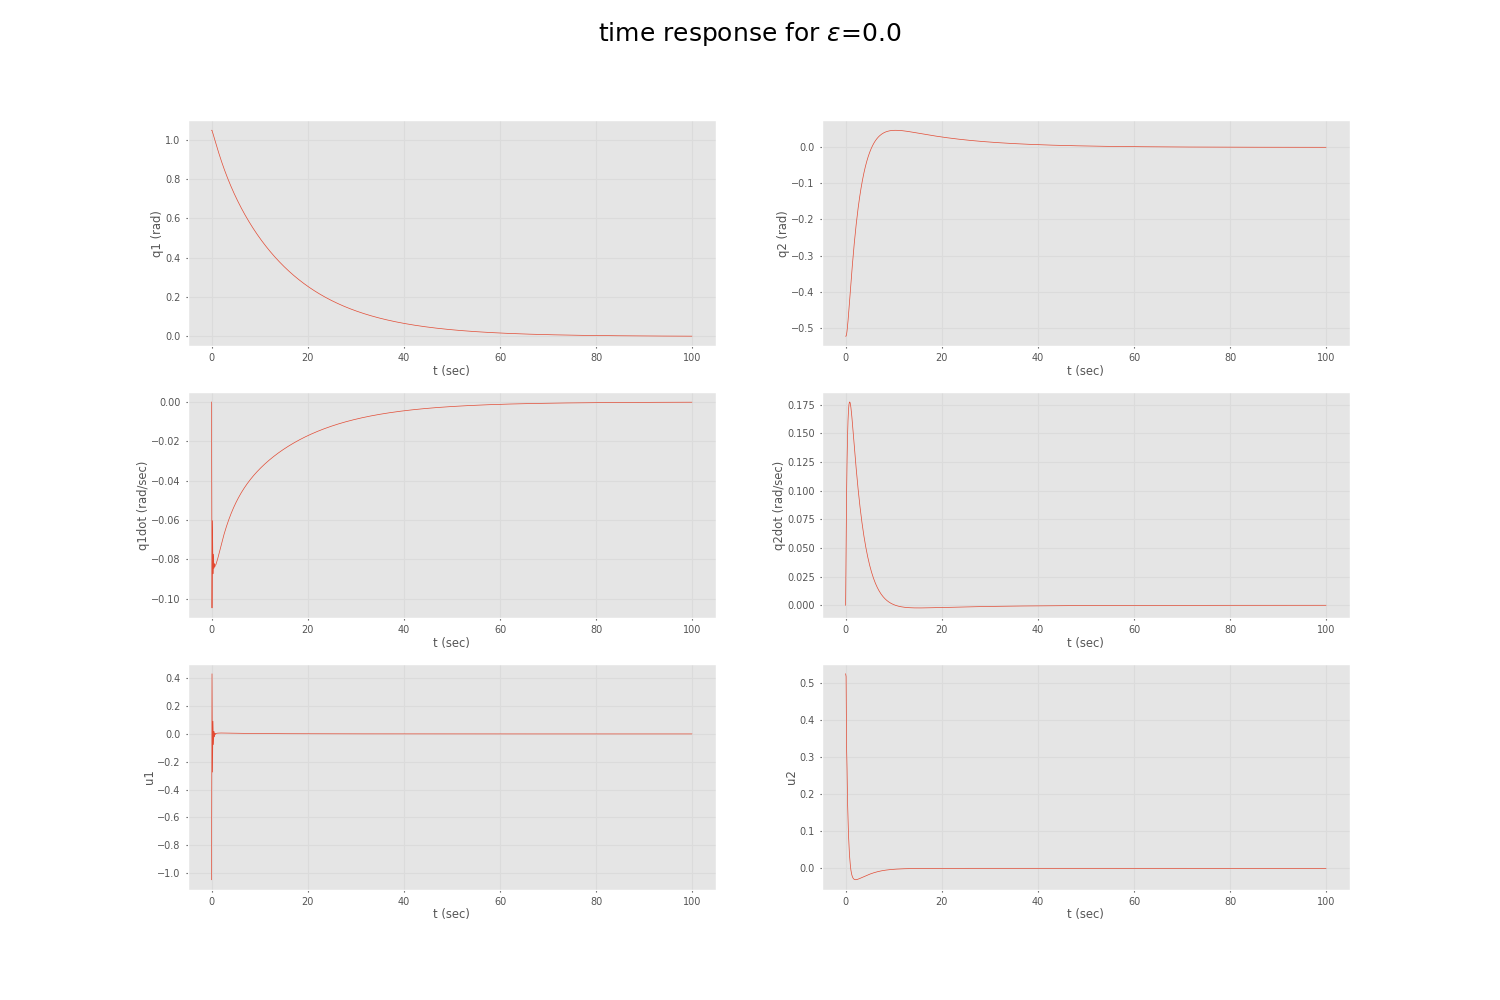
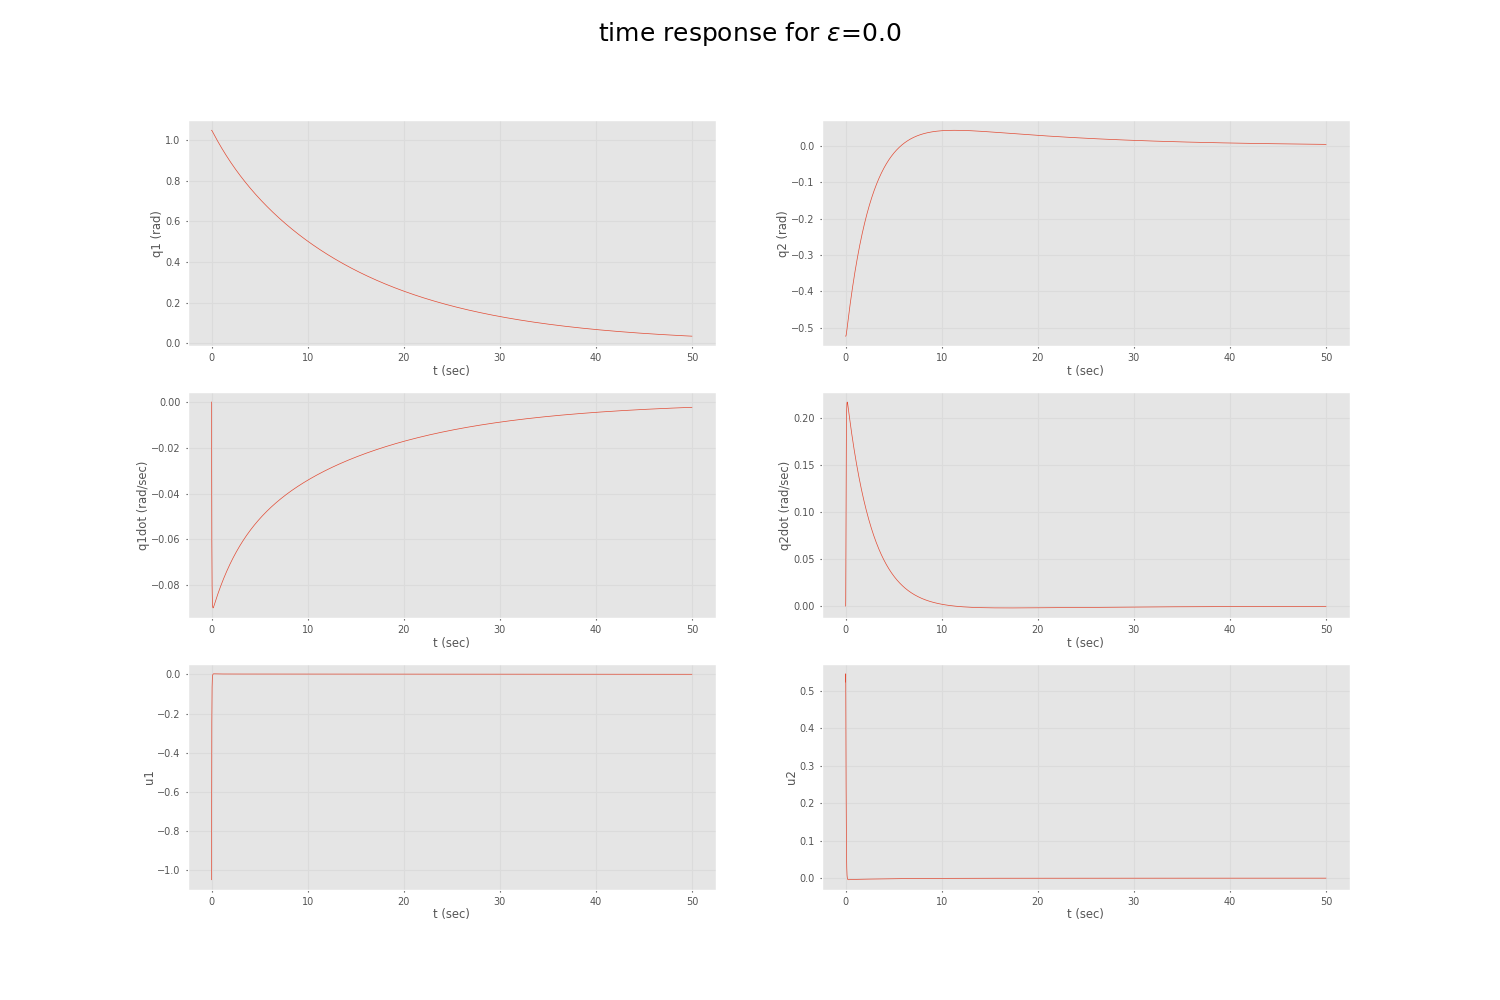
updated plot and readme

diff --git a/code/scara.py b/code/scara.py
@@ -111,7 +111,7 @@ class Manipulator:
         return next_state
 
 
-    def run_controller(self, total_time:int=100, dt:float=0.01, epsilon:float = 0):
+    def run_controller(self, total_time:int=50, dt:float=0.01, epsilon:float = 0):
         
         load_variables = {self.e:epsilon}
         
@@ -158,7 +158,7 @@ class Manipulator:
                 if m>100:
                     new_m = m//100
                     Qs = Qs[::new_m,:]
-                self.scara.plot(Qs,dt,gif_filename) # for faster graph multiplying dt with 10
+                self.scara.plot(Qs,0.1,gif_filename) # for faster graph multiplying dt with 10
                 plt.close()
     def plotData(self,q1s:list,q2s:list,q1_dots:list,q2_dots:list,u1s:list,u2s:list,Ts:list,epsilon:float):
         # plotting

diff --git a/README.md b/README.md
@@ -34,7 +34,7 @@ python3 code/scara.py results/e_0.png 0
     - `epsilon = 0` if `epsilon` argument is not given.
     - animation output = `True`, and need to set it to `False` manually in line 228 in the [file](code/scara.py), if animation is not needed.
 * `dt` should be very small, currently we are using dt = 0.01.
-
+* `total time` taken as `50 sec` instead of `100 sec` because of higher code runtime.
 ## Interactive code
 Interactive code can be found [here](code/interative_scara.ipynb)
 
